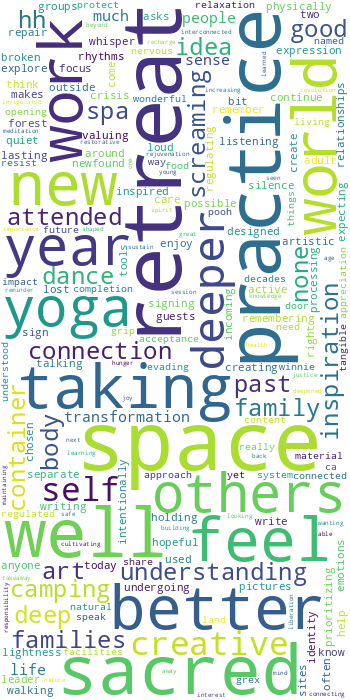
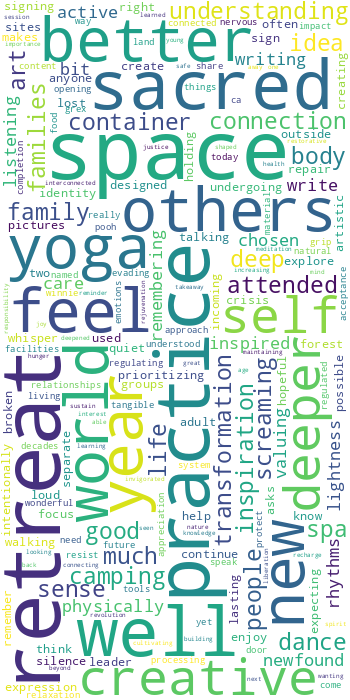
Updated exclusion list and reran word clouds

diff --git a/text_analysis.py b/text_analysis.py
@@ -21,7 +21,7 @@ custom_exclude = {
     'drinking', 'within', 'tourists', 'deck', 'happened', 'gained', 'fascism', 'children',
     'flora', 'merlin', 'alcohol', 'atum', 'bullet', 'dogs', 'babatunde', 'seems', 'carried',
     'programs', 'coming', 'medium', 'specifically', 'olatunji', 'barking', 'dig', 'campus',
-    'last', 'big'
+    'last', 'big', 'taking', 'work', 'hh', 'past', 'guests', 'around', 'none'
 }
 stop_words = set(stopwords.words('english'))
 
